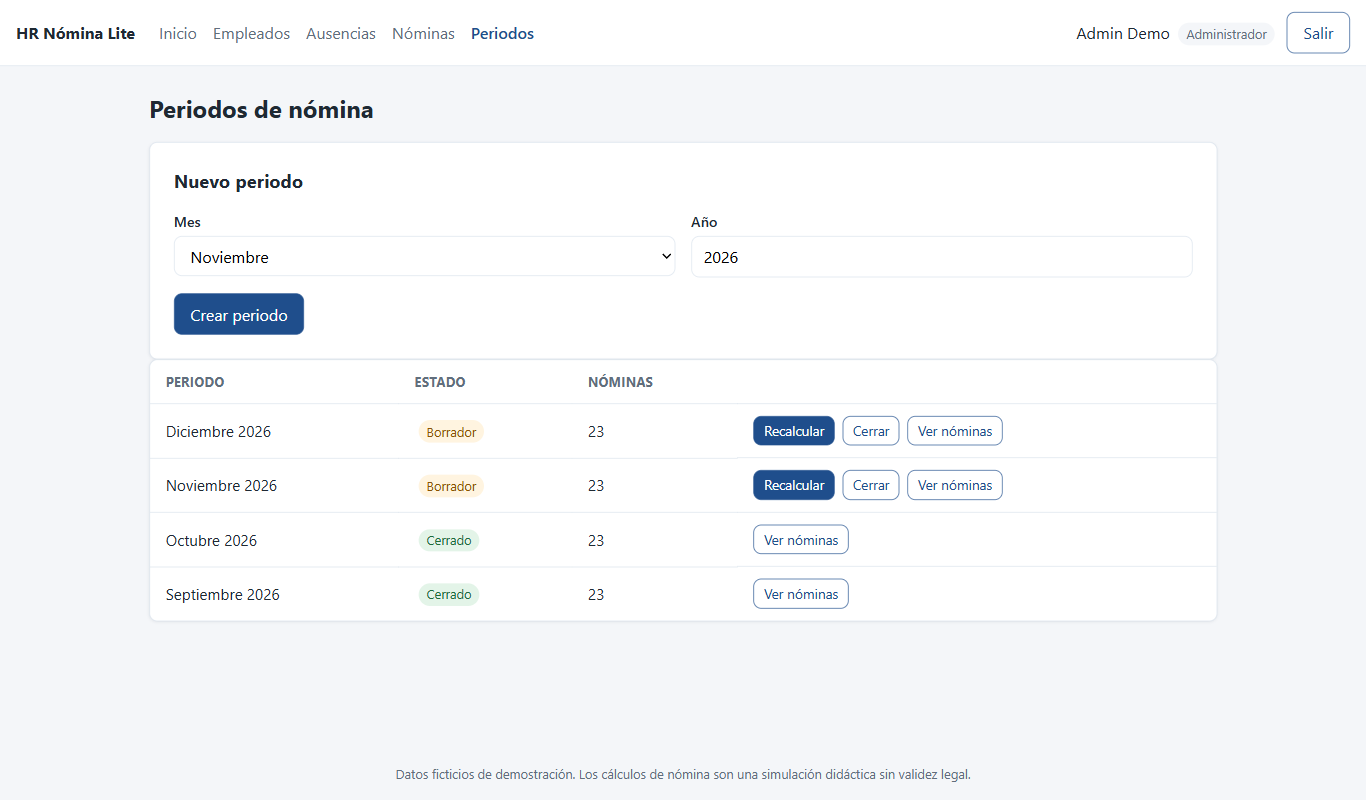
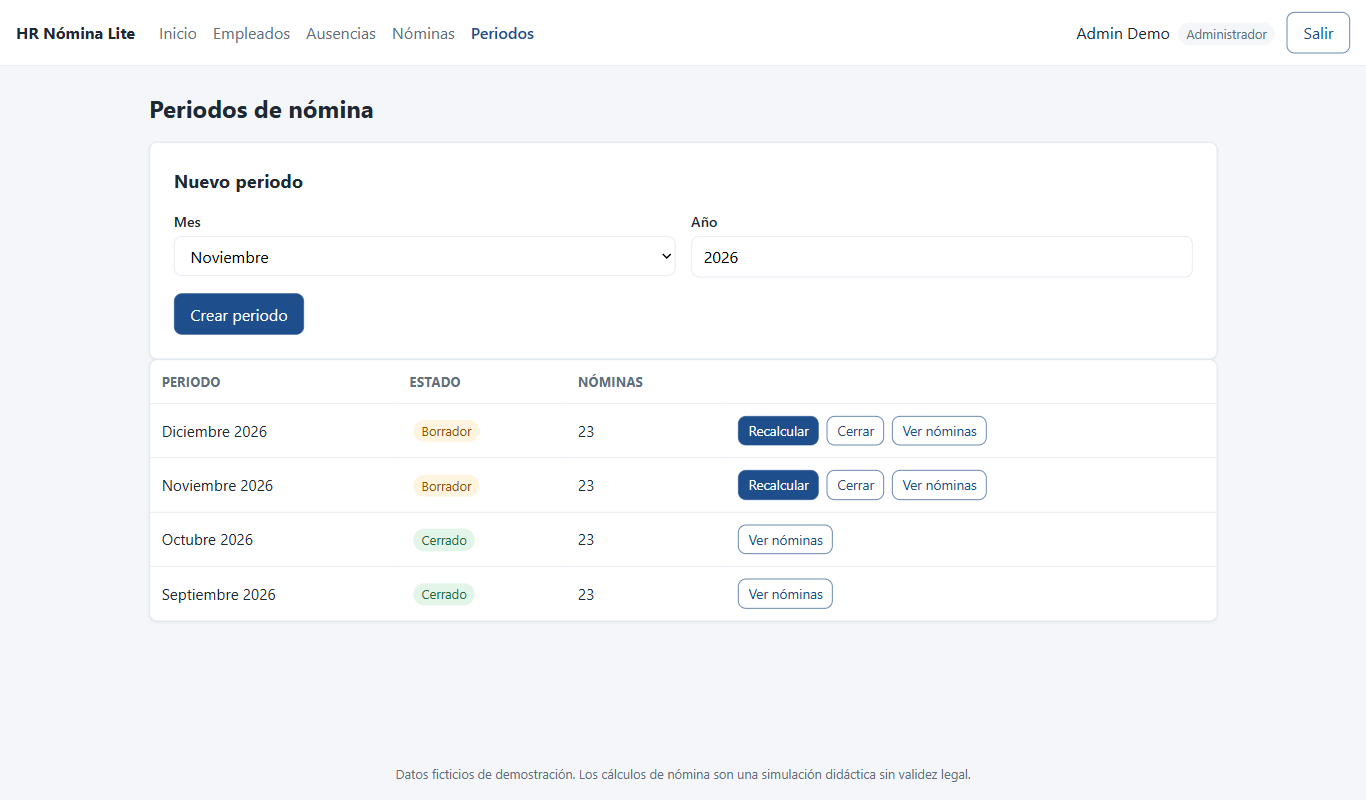
fix: sin desbordamiento horizontal en móvil ni en la tabla de ausencias

diff --git a/frontend/src/assets/main.css b/frontend/src/assets/main.css
@@ -150,7 +150,8 @@ a {
 
 .nav {
   display: flex;
-  gap: 1rem;
+  flex-wrap: wrap; /* en móvil los enlaces bajan de línea en vez de desbordar */
+  gap: 0.5rem 1rem;
   flex: 1;
 }
 
@@ -221,6 +222,7 @@ a {
 
 /* Tablas: en pantallas estrechas se desplazan dentro de su caja, no la página */
 .table-wrapper {
+  position: relative; /* recorta también los hijos absolute (.visually-hidden) */
   padding: 0;
   overflow-x: auto;
 }
@@ -233,7 +235,7 @@ a {
 
 .table th,
 .table td {
-  padding: 0.75rem 1rem;
+  padding: 0.75rem;
   text-align: left;
   border-bottom: 1px solid var(--color-border);
   white-space: nowrap;
@@ -391,9 +393,19 @@ h2 {
   gap: 0.5rem;
 }
 
+/* En una celda, flex rompe el modelo de tabla: la columna se descuadra */
+td.actions {
+  display: table-cell;
+}
+
+td.actions > * + * {
+  margin-left: 0.5rem;
+}
+
 .cell-comment {
   white-space: normal;
   min-width: 160px;
+  max-width: 200px;
   color: var(--color-muted);
 }
 
@@ -460,4 +472,12 @@ h2 {
   font-size: 2rem;
   font-weight: 700;
   font-variant-numeric: tabular-nums;
+}
+
+/* Móvil: el menú ocupa su propia fila bajo la marca */
+@media (max-width: 600px) {
+  .nav {
+    flex-basis: 100%;
+    order: 1;
+  }
 }
